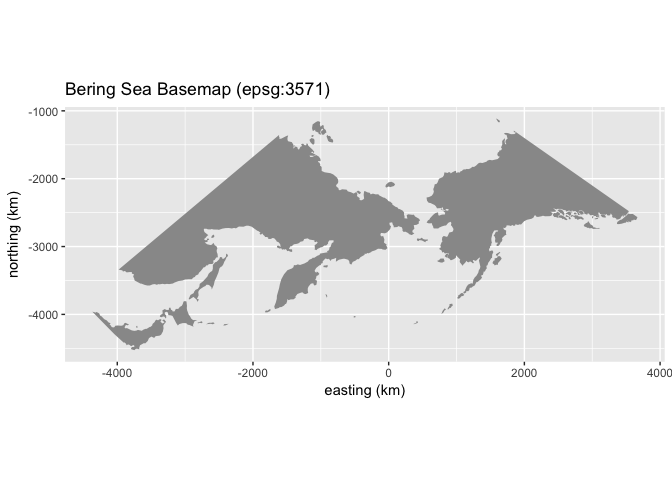
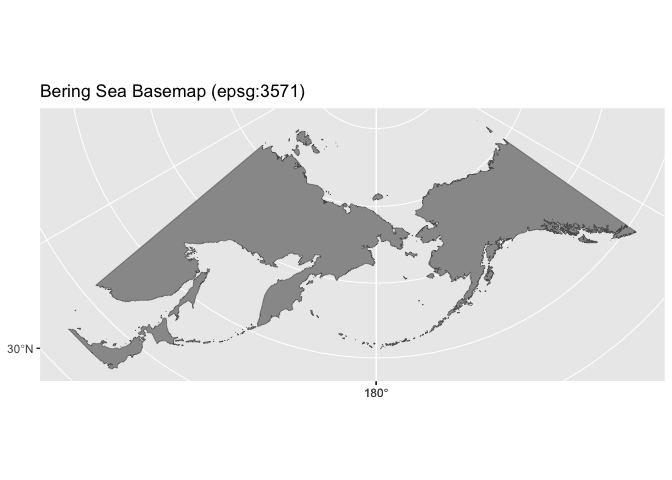
UPDATE README EXAMPLES WITH geom_sf
updated the readme examples to use ggplot2, sf, and the geom_sf

diff --git a/README.md b/README.md
@@ -77,28 +77,49 @@ Examples
 ``` r
 library(ggplot2)
 library(nPacMaps)
+#> Loading required package: PBSmapping
+#> 
+#> -----------------------------------------------------------
+#> PBS Mapping 2.70.4 -- Copyright (C) 2003-2018 Fisheries and Oceans Canada
+#> 
+#> PBS Mapping comes with ABSOLUTELY NO WARRANTY;
+#> for details see the file COPYING.
+#> This is free software, and you are welcome to redistribute
+#> it under certain conditions, as outlined in the above file.
+#> 
+#> A complete user guide 'PBSmapping-UG.pdf' is located at 
+#> /Users/josh.london/Library/R/3.4/library/PBSmapping/doc/PBSmapping-UG.pdf
+#> 
+#> Packaged on 2017-06-28
+#> Pacific Biological Station, Nanaimo
+#> 
+#> All available PBS packages can be found at
+#> https://github.com/pbs-software
+#> 
+#> To see demos, type '.PBSfigs()'.
+#> -----------------------------------------------------------
 #> Loading required package: maptools
 #> Loading required package: sp
 #> Checking rgeos availability: TRUE
+library(sf)
+#> Linking to GEOS 3.6.2, GDAL 2.2.3, proj.4 4.9.3
 
 npac_base <- nPacMaps::npac()
-#> Data are polygon data
-#> Rgshhs: clipping 7 of 2251 polygons ...
+#> importGSHHS status:
+#> --> Pass 1: complete: 15611 bounding boxes within limits.
+#> --> Pass 2: complete.
+#> --> Clipping...
+#> Warning in refocusWorld(as.PolySet(as.data.frame(xres), projection = "LL"), : Removed duplicates of following polygons (Antarctica?): 0, 1, 15
+#> importGSHHS: input xlim was (0, 360) and the longitude range of the extracted data is (0, 359.532917).
 #> Warning in extract_gshhg(xlims = xlims, ylims = ylims, resolution =
 #> resolution, : nPacMaps now returns a polygon that has been simplified
 #> via the rmapshaper package. This should improve plotting performance. Set
 #> simplify = FALSE if you want to maintain the original gshhg shorelines.
 
 npac_plot <- ggplot() + 
-  geom_polygon(data = npac_base,
-               aes(x = long,y = lat,group = group,id = id),
-               fill = "grey60") +
-  coord_fixed() +
-  xlab("easting (km)") + ylab("northing (km)") +
-  scale_x_continuous(labels = nPacMaps::to_km()) +
-  scale_y_continuous(labels = nPacMaps::to_km()) +
+  geom_sf(data = npac_base,
+               fill = "grey60", size = 0.2) +
   ggtitle('North Pacific Basemap (epsg:3832)')
-#> Warning: Ignoring unknown aesthetics: id
 npac_plot
 ```
 
@@ -109,25 +130,24 @@ npac_plot
 ``` r
 library(ggplot2)
 library(nPacMaps)
+library(sf)
 
 calcur_base <- nPacMaps::calcur()
-#> Data are polygon data
-#> Rgshhs: clipping 8 of 471 polygons ...
+#> importGSHHS status:
+#> --> Pass 1: complete: 4965 bounding boxes within limits.
+#> --> Pass 2: complete.
+#> --> Clipping...
+#> Warning in refocusWorld(as.PolySet(as.data.frame(xres), projection = "LL"), : Removed duplicates of following polygons (Antarctica?): 0, 1, 15
+#> importGSHHS: input xlim was (0, 360) and the longitude range of the extracted data is (0, 359.532917).
 #> Warning in extract_gshhg(xlims = xlims, ylims = ylims, resolution =
 #> resolution, : nPacMaps now returns a polygon that has been simplified
 #> via the rmapshaper package. This should improve plotting performance. Set
 #> simplify = FALSE if you want to maintain the original gshhg shorelines.
 
 calcur_plot <- ggplot() + 
-  geom_polygon(data = calcur_base,
-               aes(x = long,y = lat,group = group,id = id),
-               fill = "grey60") +
-  coord_fixed() +
-  xlab("easting (km)") + ylab("northing (km)") +
-  scale_x_continuous(labels = nPacMaps::to_km()) +
-  scale_y_continuous(labels = nPacMaps::to_km()) +
+  geom_sf(data = calcur_base,
+               fill = "grey60", size = 0.2) +
   ggtitle('California Current Basemap (epsg:3310)')
-#> Warning: Ignoring unknown aesthetics: id
 calcur_plot
 ```
 
@@ -138,25 +158,24 @@ calcur_plot
 ``` r
 library(ggplot2)
 library(nPacMaps)
+library(sf)
 
 bering_base <- nPacMaps::bering()
-#> Data are polygon data
-#> Rgshhs: clipping 12 of 2118 polygons ...
+#> importGSHHS status:
+#> --> Pass 1: complete: 15491 bounding boxes within limits.
+#> --> Pass 2: complete.
+#> --> Clipping...
+#> Warning in refocusWorld(as.PolySet(as.data.frame(xres), projection = "LL"), : Removed duplicates of following polygons (Antarctica?): 0, 1, 15
+#> importGSHHS: input xlim was (0, 360) and the longitude range of the extracted data is (0, 359.532917).
 #> Warning in extract_gshhg(xlims = xlims, ylims = ylims, resolution =
 #> resolution, : nPacMaps now returns a polygon that has been simplified
 #> via the rmapshaper package. This should improve plotting performance. Set
 #> simplify = FALSE if you want to maintain the original gshhg shorelines.
 
 bering_plot <- ggplot() + 
-  geom_polygon(data = bering_base,
-               aes(x = long,y = lat,group = group,id = id),
-               fill = "grey60") +
-  coord_fixed() +
-  xlab("easting (km)") + ylab("northing (km)") +
-  scale_x_continuous(labels = nPacMaps::to_km()) +
-  scale_y_continuous(labels = nPacMaps::to_km()) +
+  geom_sf(data = bering_base,
+               fill = "grey60", size = 0.2) +
   ggtitle('Bering Sea Basemap (epsg:3571)')
-#> Warning: Ignoring unknown aesthetics: id
 bering_plot
 ```
 
@@ -167,25 +186,24 @@ bering_plot
 ``` r
 library(ggplot2)
 library(nPacMaps)
+library(sf)
 
 us_arctic_base <- nPacMaps::us_arctic()
-#> Data are polygon data
-#> Rgshhs: clipping 10 of 483 polygons ...
+#> importGSHHS status:
+#> --> Pass 1: complete: 9504 bounding boxes within limits.
+#> --> Pass 2: complete.
+#> --> Clipping...
+#> Warning in refocusWorld(as.PolySet(as.data.frame(xres), projection = "LL"), : Removed duplicates of following polygons (Antarctica?): 0
+#> importGSHHS: input xlim was (0, 360) and the longitude range of the extracted data is (4.585778, 359.275833).
 #> Warning in extract_gshhg(xlims = xlims, ylims = ylims, resolution =
 #> resolution, : nPacMaps now returns a polygon that has been simplified
 #> via the rmapshaper package. This should improve plotting performance. Set
 #> simplify = FALSE if you want to maintain the original gshhg shorelines.
 
 us_arctic_plot <- ggplot() + 
-  geom_polygon(data = us_arctic_base,
-               aes(x = long,y = lat,group = group,id = id),
-               fill = "grey60") +
-  coord_fixed() +
-  xlab("easting (km)") + ylab("northing (km)") +
-  scale_x_continuous(labels = nPacMaps::to_km()) +
-  scale_y_continuous(labels = nPacMaps::to_km()) +
+  geom_sf(data = us_arctic_base,
+               fill = "grey60", size = 0.2) +
   ggtitle('US Arctic Basemap (epsg:3572)')
-#> Warning: Ignoring unknown aesthetics: id
 us_arctic_plot
 ```
 
@@ -196,25 +214,24 @@ us_arctic_plot
 ``` r
 library(ggplot2)
 library(nPacMaps)
+library(sf)
 
 ak_base <- nPacMaps::alaska()
-#> Data are polygon data
-#> Rgshhs: clipping 5 of 1380 polygons ...
+#> importGSHHS status:
+#> --> Pass 1: complete: 11544 bounding boxes within limits.
+#> --> Pass 2: complete.
+#> --> Clipping...
+#> Warning in refocusWorld(as.PolySet(as.data.frame(xres), projection = "LL"), : Removed duplicates of following polygons (Antarctica?): 0, 1, 15
+#> importGSHHS: input xlim was (0, 360) and the longitude range of the extracted data is (0, 359.532917).
 #> Warning in extract_gshhg(xlims = xlims, ylims = ylims, resolution =
 #> resolution, : nPacMaps now returns a polygon that has been simplified
 #> via the rmapshaper package. This should improve plotting performance. Set
 #> simplify = FALSE if you want to maintain the original gshhg shorelines.
 
 ak_plot <- ggplot() + 
-  geom_polygon(data = ak_base,
-               aes(x = long,y = lat,group = group,id = id),
-               fill = "grey60") +
-  coord_fixed() +
-  xlab("easting (km)") + ylab("northing (km)") +
-  scale_x_continuous(labels = nPacMaps::to_km()) +
-  scale_y_continuous(labels = nPacMaps::to_km()) +
+  geom_sf(data = ak_base,
+               fill = "grey60", size = 0.2) +
   ggtitle('Alaska Basemap (epsg:3338)')
-#> Warning: Ignoring unknown aesthetics: id
 ak_plot
 ```
 
@@ -226,7 +243,7 @@ We can also zoom in on a particular region
 library(ggplot2)
 library(nPacMaps)
 library(crawl)
-#> crawl 2.1.0 (2017-02-03) 
+#> crawl 2.1.2 (2017-04-27) 
 #>  Demos and documentation can be found at our new GitHub repository:
 #>  https://dsjohnson.github.io/crawl_examples/
 library(dplyr)
@@ -238,40 +255,40 @@ library(dplyr)
 #> The following objects are masked from 'package:base':
 #> 
 #>     intersect, setdiff, setequal, union
+library(sf)
 
 data("harborSeal")
 
-harborSeal <- harborSeal %>% filter(!is.na(latitude)) %>% 
-  as.data.frame()
+harborSeal <- harborSeal %>% 
+  filter(!is.na(latitude)) %>% 
+  as.data.frame() %>% 
+  sf::st_as_sf(coords = c("longitude","latitude")) %>% 
+  sf::st_set_crs(4326) %>% 
+  sf::st_transform(3338)
 
-sp::coordinates(harborSeal) <- ~longitude + latitude
-sp::proj4string(harborSeal) <- CRS("+init=epsg:4326")
-
-harborSeal <- sp::spTransform(harborSeal, CRS("+init=epsg:3338"))
-harborSeal <- as.data.frame(harborSeal)
-
-map_limits <- nPacMaps::ggExpansion(harborSeal,x = "longitude",y = "latitude",
-                                    x_fac = 0.25, y_fac = 0.25)
+b <- sf::st_bbox(harborSeal)
+b
+#>       xmin       ymin       xmax       ymax 
+#> -333349.45  579591.03   89911.47 1046814.58
 
 ak_base <- nPacMaps::alaska(resolution = "f")
-#> Data are polygon data
-#> Rgshhs: clipping 5 of 7494 polygons ...
+#> you requested either 'full' or 'high' resolution GSHHS data. It make take a few minutes to create your object
+#> importGSHHS status:
+#> --> Pass 1: complete: 6834 bounding boxes within limits.
+#> --> Pass 2: complete.
+#> --> Clipping...
+#> importGSHHS: input xlim was (175, 230) and the longitude range of the extracted data is (175, 230).
 #> Warning in extract_gshhg(xlims = xlims, ylims = ylims, resolution =
 #> resolution, : nPacMaps now returns a polygon that has been simplified
 #> via the rmapshaper package. This should improve plotting performance. Set
 #> simplify = FALSE if you want to maintain the original gshhg shorelines.
 
 ak_plot <- ggplot() + 
-  geom_polygon(data = ak_base,
-               aes(x = long,y = lat,group = group,id = id),
-               fill = "grey60") +
-  geom_point(data = harborSeal,aes(x = longitude, y = latitude), 
+  geom_sf(data = ak_base,
+               fill = "grey60", size = 0.2) +
+  geom_sf(data = harborSeal,
              alpha = 0.1, color = 'blue') +
-  coord_fixed(xlim = map_limits$xlim, ylim = map_limits$ylim) +
-  xlab("easting (km)") + ylab("northing (km)") +
-  scale_x_continuous(labels = nPacMaps::to_km()) +
-  scale_y_continuous(labels = nPacMaps::to_km())
-#> Warning: Ignoring unknown aesthetics: id
+  coord_sf(xlim = c(b["xmin"], b["xmax"]), ylim = c(b["ymin"], b["ymax"]))
 ak_plot
 ```
 
